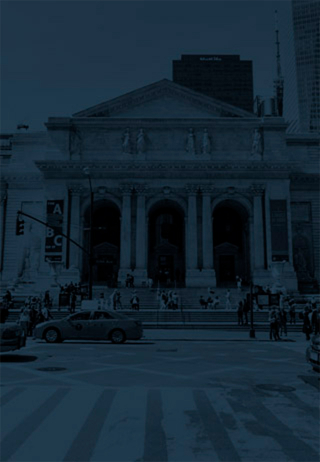
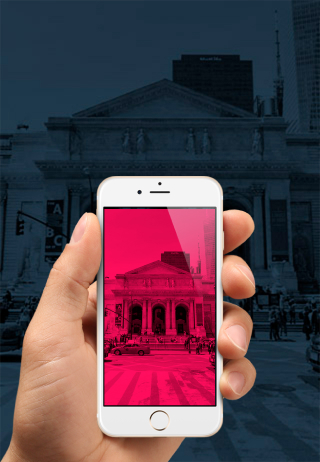
style mobile main-nav-closed

diff --git a/source/index.html b/source/index.html
@@ -12,10 +12,11 @@
 </head>
 <body class="page-body">
   <header class="page-header">
-    <div class="page-header__main-menu-box content">
-      <a class="pink-logo-text" aria-label="Логотип сервиса Пинк">
-        <svg width="74" height="23" fill="none" xmlns="http://www.w3.org/2000/svg">
-          <path d="M0 1.55A1.29 1.29 0 011.26.26h7.13c5.06 0 8.39 2.7 8.39 7.13v.06c0 4.85-4.04 7.36-8.8
+    <nav class="main-nav main-nav--closed">
+      <div class="main-nav__menu-box content">
+        <a class="main-nav__pink-logo" aria-label="Логотип сервиса Пинк">
+          <svg width="74" height="23" fill="none" xmlns="http://www.w3.org/2000/svg">
+            <path d="M0 1.55A1.29 1.29 0 011.26.26h7.13c5.06 0 8.39 2.7 8.39 7.13v.06c0 4.85-4.04 7.36-8.8
         7.36H2.53v6.8A1.28 1.28 0 011.27 23 1.27 1.27 0 010 21.61V1.55zm8.07 10.97c3.7 0
         6.14-2 6.14-4.99v-.06c0-3.2-2.4-4.87-5.96-4.87H2.6v9.88l5.48.04zM21.6 1.39A1.28 1.28 0 0122.85
         0a1.27 1.27 0 011.27 1.39V21.6A1.28 1.28 0 0122.86 23a1.27 1.27 0 01-1.27-1.39V1.4zM30.67 1.42A1.28
@@ -25,64 +26,65 @@
         1.39v12.3L71.23.54c.26-.27.62-.43 1-.45a1.27 1.27 0 011.21 1.26 1.29 1.29 0 01-.41.9l-7.95 7.9 8.57
         10.52c.23.26.35.6.35.94a1.31 1.31 0 01-1.34 1.28 1.23 1.23 0 01-1-.58L63.3 11.86l-4.83 4.85v4.88a1.27
         1.27 0 01-1.26 1.27 1.26 1.26 0 01-1.26-1.27V1.4h-.01z" fill="#fff"
-          />
-        </svg>
-      </a>
-      <button class="page-header-site-nav__toggle" type="button" aria-label="открыть главное меню"></button>
-    </div>
-    <ul class="page-header__site-nav-list">
-      <li class="page-header__site-nav-item page-header__site-nav-item--active">
-        <a class="page-header__site-nav-link">
-          Главная
+            />
+          </svg>
         </a>
-      </li>
-      <li class="page-header__site-nav-item">
-        <a href="catalog.html" class="page-header__site-nav-link">
-          Фотографии
-        </a>
-      </li>
-      <li class="page-header__site-nav-item">
-        <a href="form.html" class="page-header__site-nav-link">
-          конкурс
-        </a>
-      </li>
-      <li class="page-header__site-nav-item">
-        <a href="https://htmlacademy.ru/intensive/adaptive" class="page-header__site-nav-link">
-          html academy
-        </a>
-      </li>
-    </ul>
-    </div>
-    <p class="page-header__lead">
-      Взгляните на жизнь
-      иначе!
-    </p>
-    <div class="page-header__decoration-background">
-    </div>
-    <div class="page-header__download-refs-box">
-      <a href="https://www.apple.com/ru/app-store/" class="page-header__default-ref"
-        aria-label="скачивание из источника по умолчанию">
-        Скачать приложение
-      </a>
-      <a href="https://www.apple.com/ru/app-store/" class="page-header__appstore-ref"
-        aria-label="скачивание из магазина эпл">
-        <img src="img/apple-logo.svg" alt="логотип эпл">
-      </a>
-      <a href="https://play.google.com/store/apps" class="page-header__play-market-ref"
-        aria-label="скачивание из магазина гугл">
-        <img src="img/android-logo.svg" alt="логотип андроид">
-      </a>
-      <a href="https://www.microsoft.com/ru-RU/store/apps" class="page-header__ms-store-ref"
-        aria-label="скачивание из магазина майкрософт">
-        <img src="img/microsoft-logo.svg" alt="логотип майкрософт">
-      </a>
-      <p class="page-header__download-refs-description">
-        Доступно для iPhone, iPad, Android, Windows Phone, OS X, Windows 8
-      </p>
-    </div>
+        <button class="main-nav__toggle" type="button" aria-label="открыть главное меню"></button>
+      </div>
+      <ul class="page-header__site-nav-list" hidden>
+        <li class="page-header__site-nav-item page-header__site-nav-item--active">
+          <a class="page-header__site-nav-link">
+            Главная
+          </a>
+        </li>
+        <li class="page-header__site-nav-item">
+          <a href="catalog.html" class="page-header__site-nav-link">
+            Фотографии
+          </a>
+        </li>
+        <li class="page-header__site-nav-item">
+          <a href="form.html" class="page-header__site-nav-link">
+            конкурс
+          </a>
+        </li>
+        <li class="page-header__site-nav-item">
+          <a href="https://htmlacademy.ru/intensive/adaptive" class="page-header__site-nav-link">
+            html academy
+          </a>
+        </li>
+      </ul>
+    </nav>
   </header>
   <main class="page-main">
     <h1 class="visually-hidden">Сообщество любителей фотографии - Взгляните на жизнь иначе!</h1>
+    <section class="showcase">
+      <h2 class="visually-hidden">Скачайте наше приложение</h2>
+      <p class="showcase__lead">
+        Взгляните на жизнь
+        иначе!
+      </p>
+      <div class="showcase__download-refs-box">
+        <a href="https://www.apple.com/ru/app-store/" class="page-header__default-ref"
+          aria-label="скачивание из источника по умолчанию">
+          Скачать приложение
+        </a>
+        <a href="https://www.apple.com/ru/app-store/" class="page-header__appstore-ref"
+          aria-label="скачивание из магазина эпл">
+          <img src="img/apple-logo.svg" alt="логотип эпл">
+        </a>
+        <a href="https://play.google.com/store/apps" class="page-header__play-market-ref"
+          aria-label="скачивание из магазина гугл">
+          <img src="img/android-logo.svg" alt="логотип андроид">
+        </a>
+        <a href="https://www.microsoft.com/ru-RU/store/apps" class="page-header__ms-store-ref"
+          aria-label="скачивание из магазина майкрософт">
+          <img src="img/microsoft-logo.svg" alt="логотип майкрософт">
+        </a>
+        <p class="page-header__download-refs-description">
+          Доступно для iPhone, iPad, Android, Windows Phone, OS X, Windows 8
+        </p>
+      </div>
+    </section>
     <section class="section-slogans">
       <h2 class="visually-hidden">Наша миссия</h2>
       <div class="section-slogans__wrapper">

diff --git a/source/sass/blocks/page-header.scss b/source/sass/blocks/page-header.scss
@@ -1,21 +1,8 @@
 @import "../global/variables.scss";
+@import "../global/mixins.scss";
 
 .page-header {
-  background-image: url("../img/back-mobile.jpg");
-  background-repeat: no-repeat;
-  &__lead {
-    font-family: "Open Sans", "Verdana", sans-serif;
-    color: $basic-white;
-    font-size: 24px;
-    font-style: normal;
-    font-weight: 300;
-    line-height: 29px;
-  }
-  &__decoration-background {
-    height: 286px;
-    background-image: url("../img/phone-in-hand.png");
-    background-repeat: no-repeat;
-  }
+  background-color: rgba(#000000, 0.3);
   &__site-nav-list {
     list-style: none;
     margin: 0;
@@ -32,29 +19,5 @@
     line-height: 32px;
     color: $basic-white;
     text-transform: uppercase;
-  }
-  &__download-refs-box {
-    background-color: $dark-cian;
-  }
-  &__default-ref {
-    display: block;
-    font-family: Open Sans;
-    font-size: 21px;
-    font-style: normal;
-    font-weight: 700;
-    line-height: 18px;
-    border: 3px solid $basic-white;
-    box-sizing: border-box;
-    border-radius: 29px;
-    text-align: center;
-    color: $basic-white;
-  }
-  &__download-refs-description {
-    font-family: "Open Sans";
-    font-size: 14px;
-    font-style: normal;
-    font-weight: 300;
-    line-height: 24px;
-    color: $basic-white;
   }
 }

diff --git a/source/sass/blocks/showcase.scss b/source/sass/blocks/showcase.scss
@@ -1,0 +1,42 @@
+.showcase {
+  position: relative;
+  top: -66px;
+  height: 733px;
+  background-color: $dark-cian;
+  background-image: url("../img/back-mobile.jpg");
+  background-repeat: no-repeat;
+  background-position: 50% 0;
+  margin-bottom: -66px;
+  z-index: -1;
+  &__lead {
+    margin: 0;
+    padding: 0;
+    font-family: "Open Sans", "Verdana", sans-serif;
+    color: $basic-white;
+    font-size: 24px;
+    font-style: normal;
+    font-weight: 300;
+    line-height: 29px;
+  }
+  &__default-ref {
+    display: block;
+    font-family: Open Sans;
+    font-size: 21px;
+    font-style: normal;
+    font-weight: 700;
+    line-height: 18px;
+    border: 3px solid $basic-white;
+    box-sizing: border-box;
+    border-radius: 29px;
+    text-align: center;
+    color: $basic-white;
+  }
+  &__download-refs-description {
+    font-family: "Open Sans";
+    font-size: 14px;
+    font-style: normal;
+    font-weight: 300;
+    line-height: 24px;
+    color: $basic-white;
+  }
+}

diff --git a/source/sass/blocks/main-nav.scss b/source/sass/blocks/main-nav.scss
@@ -1,0 +1,36 @@
+@import "../global/variables.scss";
+@import "../global/mixins.scss";
+
+.main-nav {
+  &__menu-box {
+    display: flex;
+    justify-content: space-between;
+    height: 66px;
+    align-items: center;
+  }
+  &__pink-logo {
+    padding-top: 4px;
+  }
+  &__toggle {
+    position: relative;
+    width: 50px;
+    height: 24px;
+    cursor: pointer;
+    border: none;
+    background-color: transparent;
+  }
+}
+
+.main-nav--closed .main-nav__toggle::before {
+  content: "";
+  position: absolute;
+  top: 0;
+  left: 0;
+  width: 50px;
+  height: 4px;
+  border-radius: 1px;
+  background-color: #ffffff;
+  box-shadow: 0 10px 0 0 #ffffff, 0 20px 0 0 #ffffff;
+}
+
+

diff --git a/source/sass/global/global.scss b/source/sass/global/global.scss
@@ -1,4 +1,5 @@
 @import "variables.scss";
+@import "../global/mixins.scss";
 
 img {
   max-width: 100%;
@@ -15,9 +16,20 @@ a {
 }
 
 .content {
-  margin: auto 20px;
+  @include for-phone-only {
+    //width: 280px;
+    margin-left: 20px;
+    margin-right: 20px;
+  }
+  @include for-tablet-portrait-up {
+    margin-left: 20px;
+    margin-right: 20px;
+  }
+  @include for-desktop-up {
+    margin-left: 130px;
+    margin-right: 130px;
+  }
 }
-
 .visually-hidden {
   position: absolute;
   width: 1px;

diff --git a/source/sass/global/mixins.scss b/source/sass/global/mixins.scss
@@ -1,3 +1,15 @@
-@mixin content ($margins: 20px) {
-  margin: $margins auto;
+@mixin for-phone-only {
+  @media (max-width: 659px) {
+    @content;
+  }
+}
+@mixin for-tablet-portrait-up {
+  @media (min-width: 660px) {
+    @content;
+  }
+}
+@mixin for-desktop-up {
+  @media (min-width: 1200px) {
+    @content;
+  }
 }

diff --git a/source/sass/style.scss b/source/sass/style.scss
@@ -7,5 +7,8 @@
 @import "blocks/page";
 @import "blocks/page-body";
 @import "blocks/page-header";
+@import "blocks/main-nav";
+@import "blocks/showcase.scss";
 @import "blocks/section-slogans";
+@import "blocks/section-features";
 

diff --git a/source/sass/blocks/page-body.scss b/source/sass/blocks/page-body.scss
@@ -5,5 +5,5 @@
   font-style: normal;
   margin: 0;
   background-color: $basic-white;
-  width: 320px;
+  min-width: 320px;
 }

diff --git a/source/sass/blocks/section-features.scss b/source/sass/blocks/section-features.scss
@@ -1,0 +1,5 @@
+@import "../global/variables.scss";
+
+.section-features {
+  background-color: $basic-light-gray;
+}

diff --git a/source/sass/global/variables.scss b/source/sass/global/variables.scss
@@ -1,4 +1,5 @@
 $basic-white: #ffffff;
 $dark-cian: #1D2631;
 $cian: #283645;
+$basic-light-gray: #F2F2F2;
 
